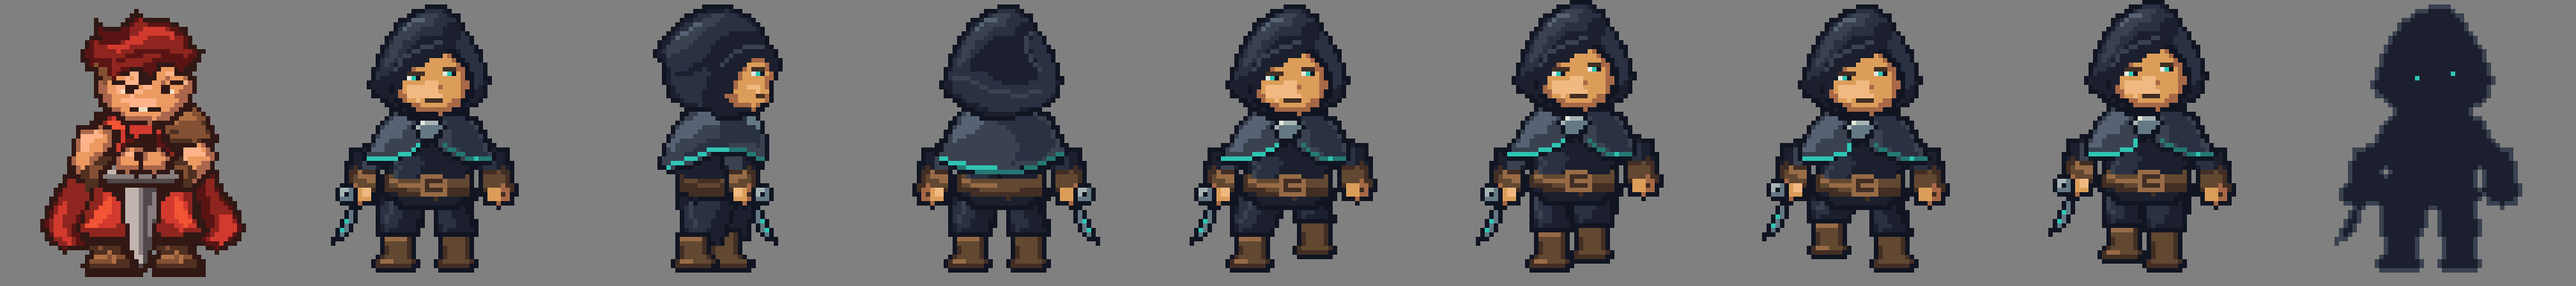
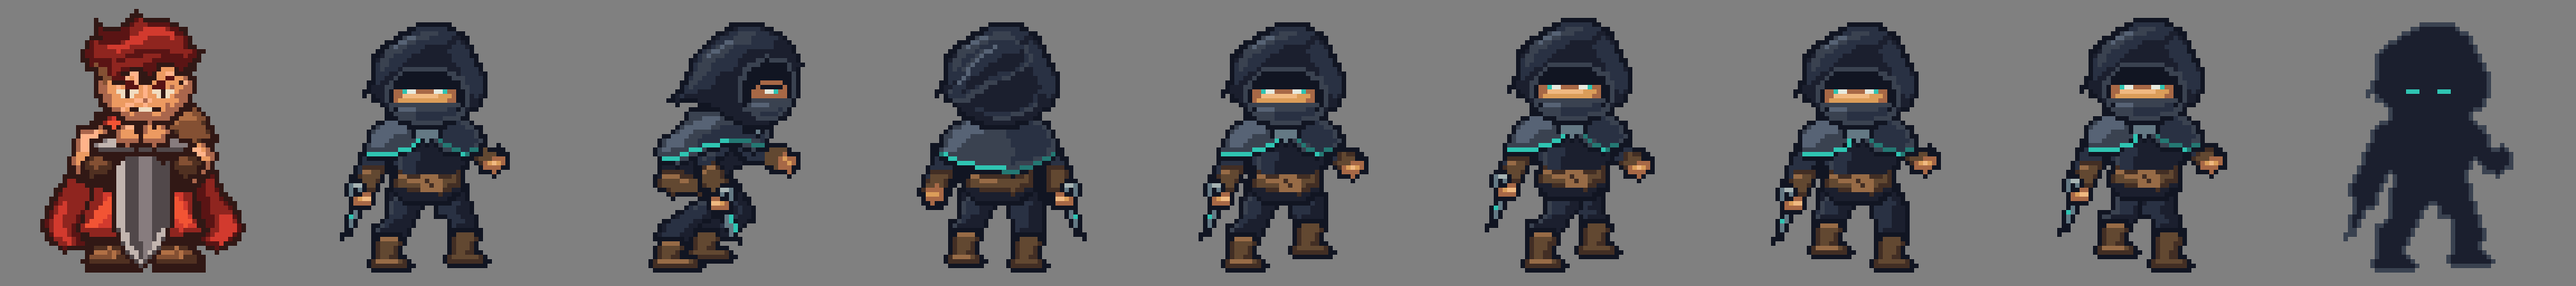
[skip deploy] D02T-2 도적 재작업 (복면·날렵한 자세)

diff --git a/assets/dot-src/rogue/gpt_dot/note.md b/assets/dot-src/rogue/gpt_dot/note.md
@@ -1,3 +1,8 @@
 색상 16종 · #111522, #1B1F2E, #293143, #3A4250, #576375, #422E24, #624831, #976B46, #A76846, #DB9D59, #F0B981, #647984, #A7B4B4, #E6E9DE, #2FC4B2, #247873 · 분신 #1B1F2E, #3A4250, #2FC4B2.
 원본 대비 두건 아래 정면 양쪽 눈을 더 열고 어깨·팔 밝은 면을 넓힘. A안 망토 끝단의 청록을 1칸으로 정리.
 오른손 단검을 고리 포함 14칸으로 정리. 발밑 투명 3행을 확보해 광전사와 같은 인물 높이 60칸 유지.
+
+## D02T-2
+팔레트 16색 · #111522, #1B1F2E, #293143, #3A4250, #576375, #422E24, #624831, #976B46, #A76846, #DB9D59, #F0B981, #647984, #A7B4B4, #E6E9DE, #2FC4B2, #247873.
+남회색 복면과 수평 3칸 눈, 뒤로 접은 두건 끝 적용. 그림자 분신은 같은 자세와 눈 좌표를 사용.
+허리를 좁힌 낮은 자세와 굽힌 무릎, 앞으로 내민 빈손, 역수 고리 단검 적용.
